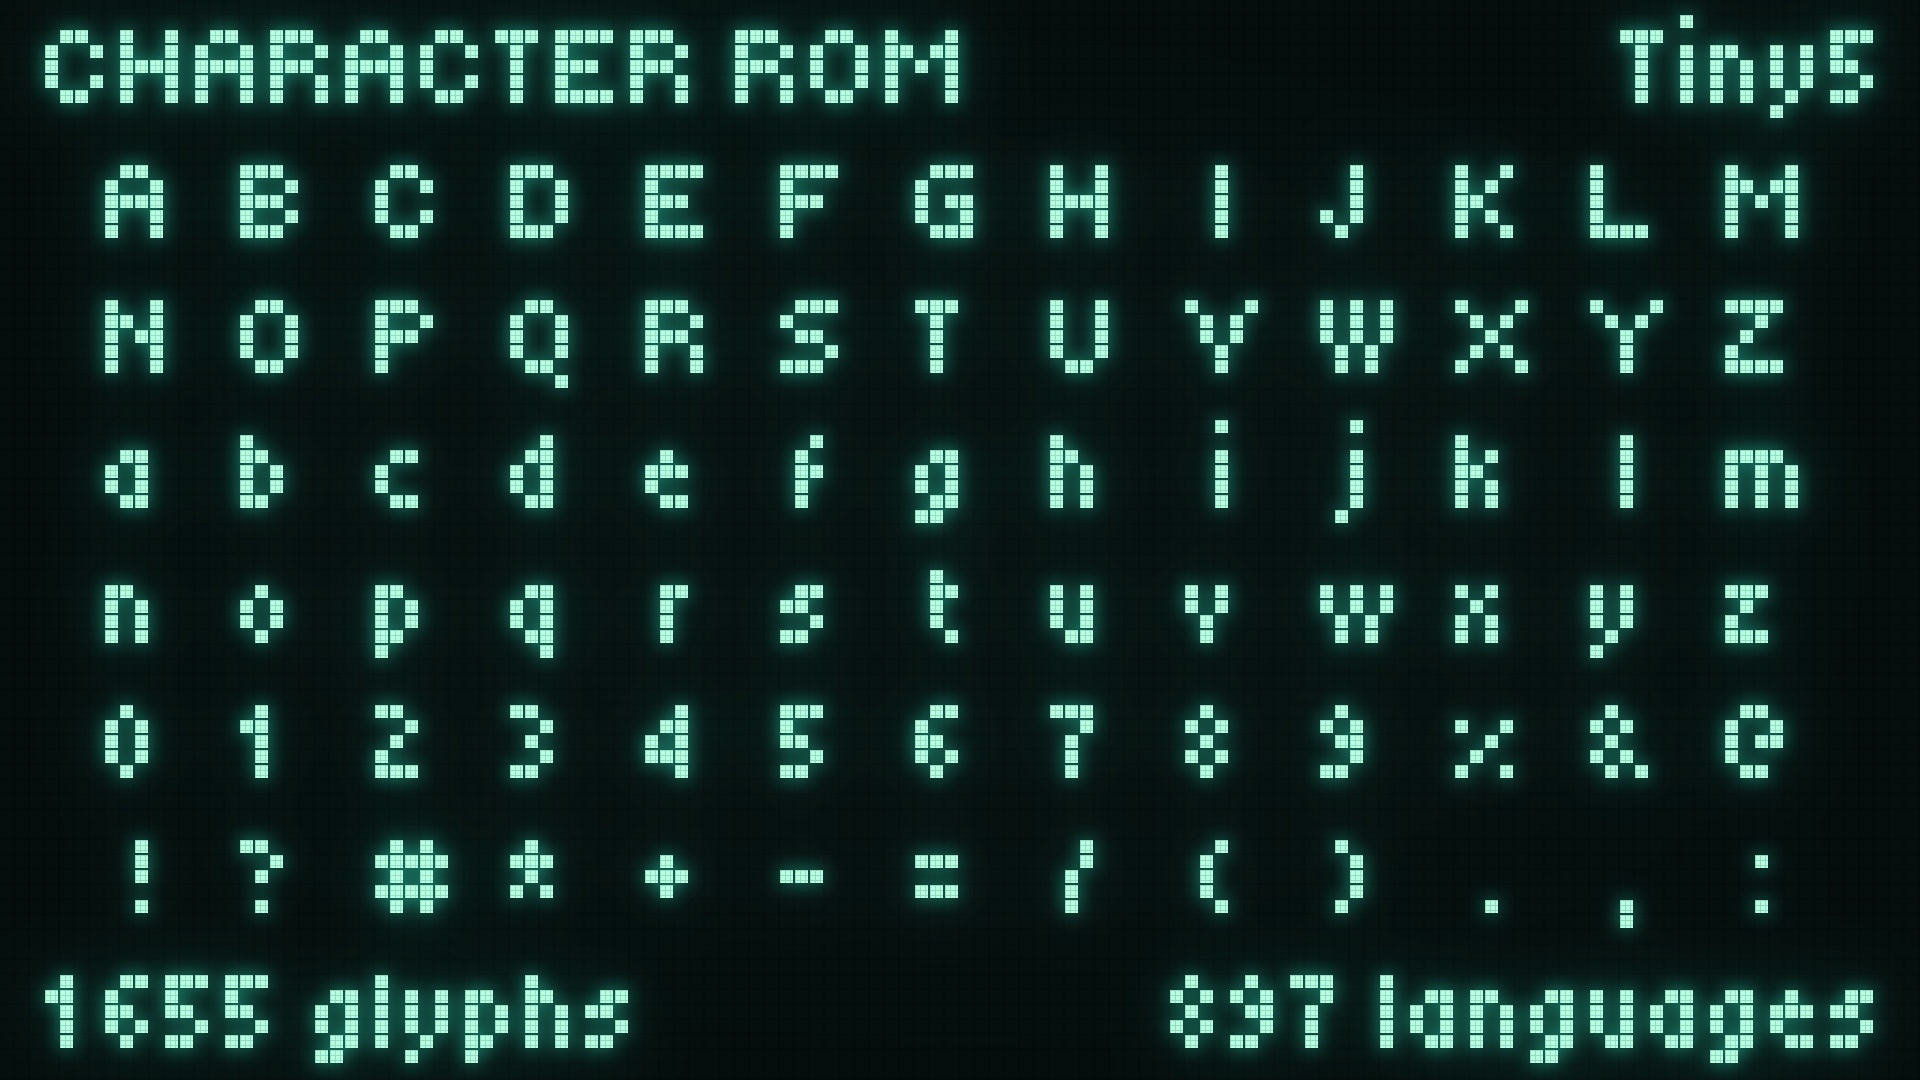
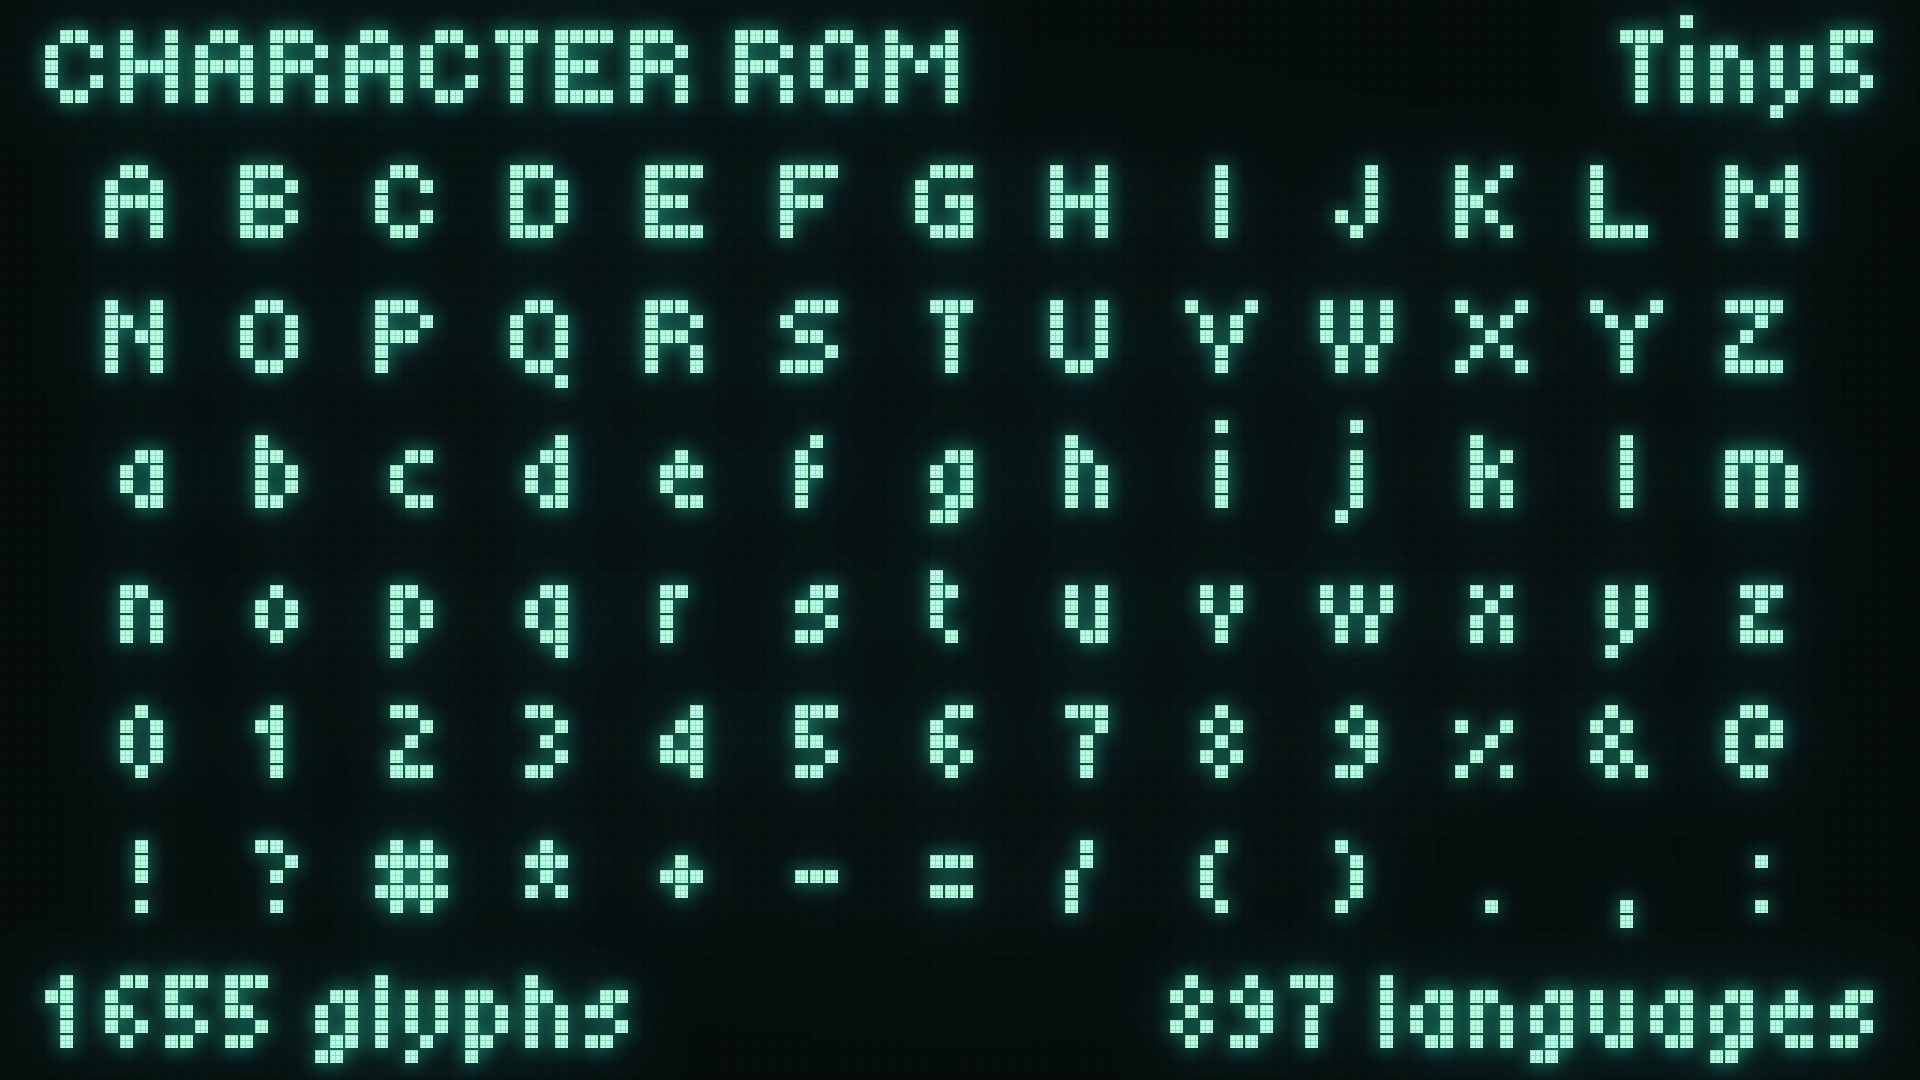
Specimen update

diff --git a/documentation/build-specimen.py b/documentation/build-specimen.py
@@ -134,10 +134,18 @@ class Display:
         return draw.textlength(string, font=font) / unit - scale
 
     def char_row(self, left, baseline, pitch, scale, chars, duo=False):
-        """Draw characters on a fixed pitch, centered in each column."""
+        """Draw characters on a fixed pitch, centered in each column.
+
+        A column has no center cell to anchor on: with an odd pitch the
+        center falls between two cells, and rounding the anchor there would
+        push every odd-width character a whole cell off. The slack the
+        character leaves in its column is split instead, which lands on
+        whole cells by construction.
+        """
         for column, char in enumerate(chars):
-            x = left + column * pitch + pitch // 2
-            self.text((x, baseline), scale, char, anchor="ms", duo=duo)
+            slack = pitch - round(self.text_width(scale, char, duo))
+            self.text((left + column * pitch + slack // 2, baseline),
+                      scale, char, duo=duo)
 
 
 # --- Image helpers ----------------------------------------------------------
